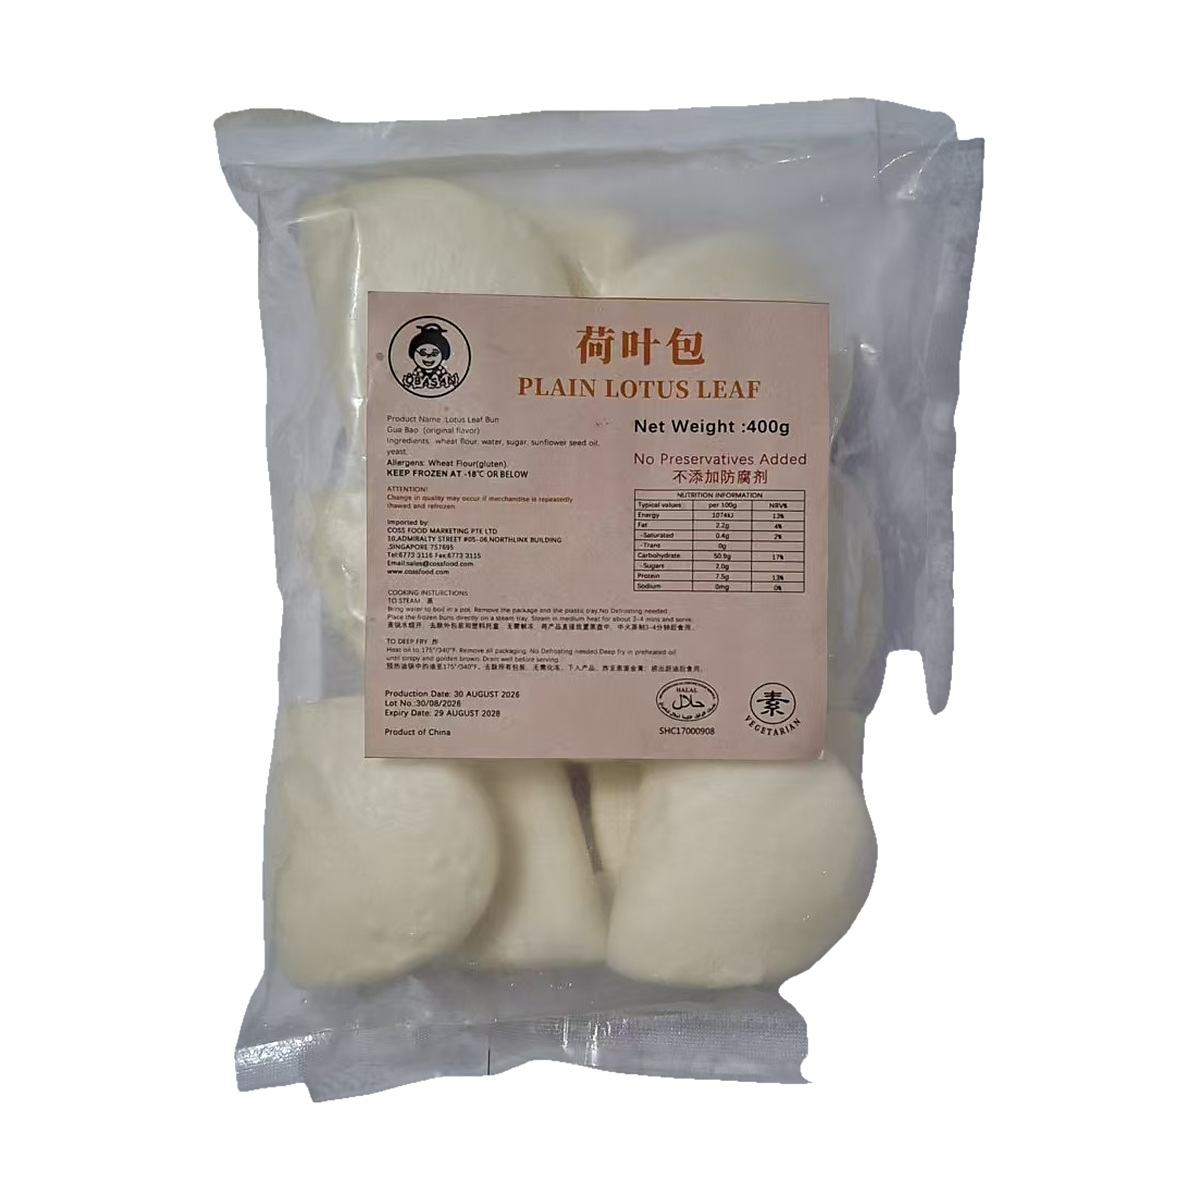
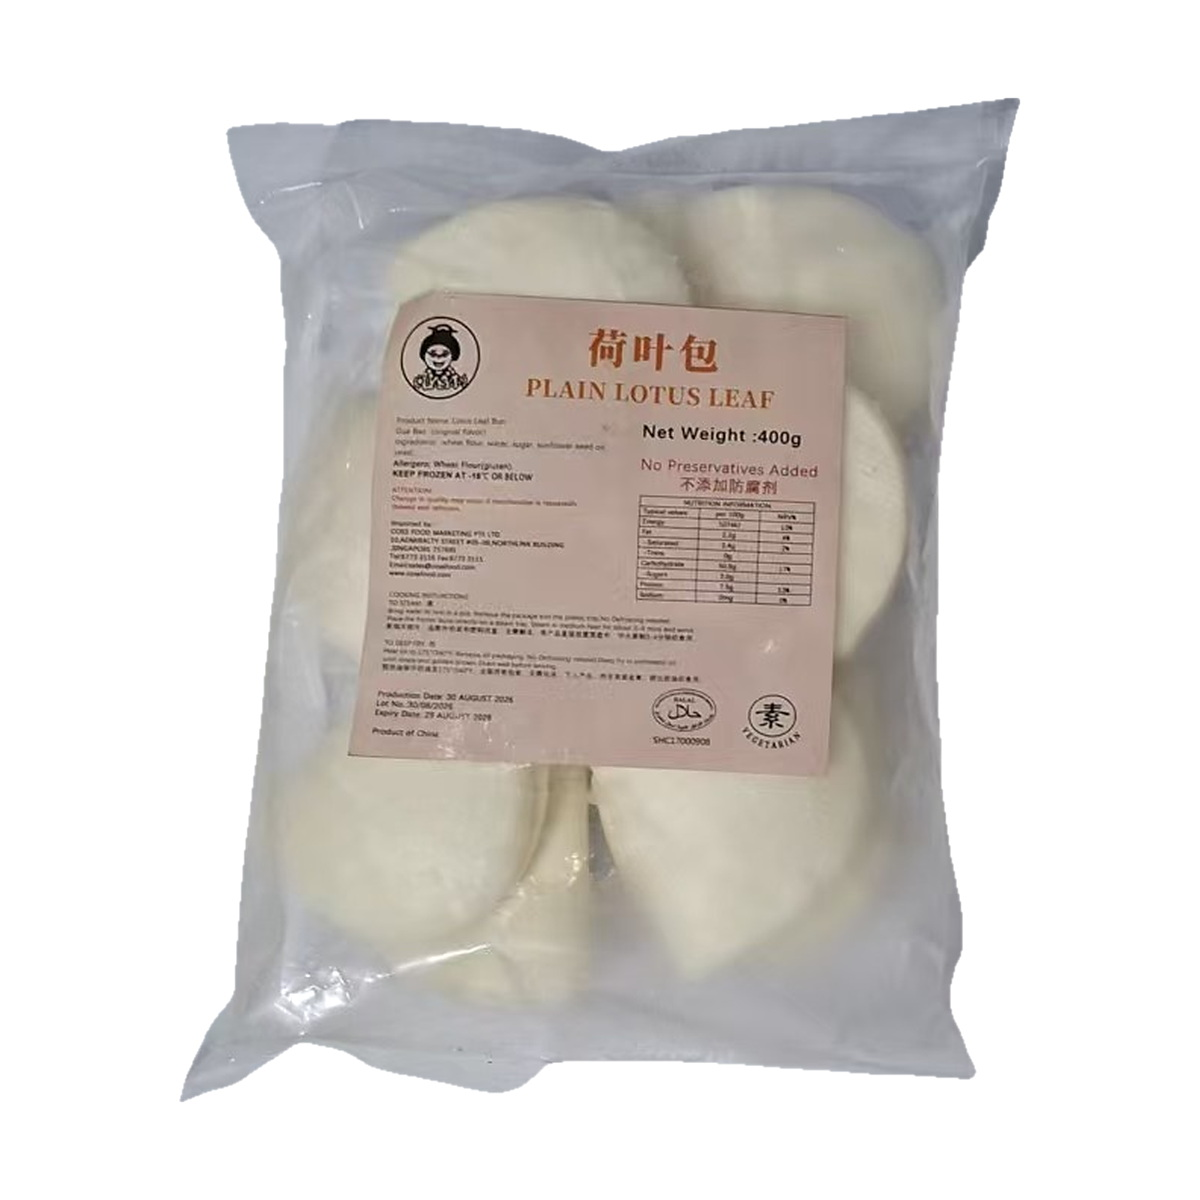
Lotus leaf bun (large): keep single main photo, remove deleted detail images

Changed region(s): [[0.1542, 0.0617, 0.8633, 0.925]]

diff --git a/index.html b/index.html
@@ -566,7 +566,7 @@
             { code: 'B008', names: { en: 'Mantou Pandan', zh: '斑斓馒头', ms: 'Mantou Pandan' }, category: '包点与点心', unit: 'PKT', brand: 'SOON LEE', images: ['image/optimized/B008 mantou pandan 斑斓馒头/soonlee-pandan-main.jpg', 'image/optimized/B008 mantou pandan 斑斓馒头/pandan-detail-1.jpg', 'image/optimized/B008 mantou pandan 斑斓馒头/pandan-detail-2.jpg'] },
             { code: 'B016', names: { en: 'Lotus Leaf (Plain)', zh: '荷叶包（原味）', ms: 'Daun Teratai (Kosong)' }, category: '包点与点心', unit: 'PKT', brand: 'SOON LEE', images: ['image/optimized/B016 lotus leaf (plain)荷叶包/soonlee-lotusplain-main.jpg', 'image/optimized/B016 lotus leaf (plain)荷叶包/lotusplain-detail-1.jpg', 'image/optimized/B016 lotus leaf (plain)荷叶包/lotusplain-detail-2.jpg'] },
             { id: 'new-fruitveg', code: '', names: { en: 'Fruit & Vegetable Mantou 180g', zh: '果蔬小馒头 180g', ms: 'Mantou Buah dan Sayur 180g' }, category: '包点与点心', unit: 'PKT', brand: 'OBASAN', images: ['image/optimized/fruit vegetable mantou 180g果蔬小馒头/obasan-fruitveg-main.jpg'] },
-            { id: 'new-lotus-big', code: '', names: { en: 'Lotus Leaf Bun (Large) 400g', zh: '荷叶包（大）400g', ms: 'Pau Daun Teratai (Besar) 400g' }, category: '包点与点心', unit: 'PKT', brand: 'OBASAN', images: ['image/optimized/lotus leaf 400g荷叶包(大）/obasan-lotusleaf-main.jpg', 'image/optimized/lotus leaf 400g荷叶包(大）/obasan-lotusleaf-detail-1.jpg', 'image/optimized/lotus leaf 400g荷叶包(大）/obasan-lotusleaf-detail-2.jpg'] },
+            { id: 'new-lotus-big', code: '', names: { en: 'Lotus Leaf Bun (Large) 400g', zh: '荷叶包（大）400g', ms: 'Pau Daun Teratai (Besar) 400g' }, category: '包点与点心', unit: 'PKT', brand: 'OBASAN', images: ['image/optimized/lotus leaf 400g荷叶包(大）/obasan-lotusleaf-main.jpg'] },
             { id: 'new-brownsugar', code: '', names: { en: 'Brown Sugar Mantou 130g', zh: '红糖馒头 130g', ms: 'Mantou Gula Perang 130g' }, category: '包点与点心', unit: 'PKT', brand: 'OBASAN', images: ['image/optimized/brown sugar mantou 130g红馒头/obasan-brownsugar-main.jpg'] },
             { code: 'CC001', names: { en: 'Sweeten Chin Chow', zh: '甜仙草', ms: 'Cincau Manis' }, category: '甜品与凉粉', unit: 'PCS', brand: 'LO SAM', images: ['image/optimized/CC001 sweeten chin chow甜仙草/sweeten-chinchow-main.jpg', 'image/optimized/CC001 sweeten chin chow甜仙草/chinchow-detail-1.jpg'] },
             { code: 'CC002', names: { en: 'Chin Chow No Sugar', zh: '无糖仙草', ms: 'Cincau Tanpa Gula' }, category: '甜品与凉粉', unit: 'PCS', brand: 'LO SAM', images: ['image/optimized/CC002 chin chow no sugar无糖仙草/original-chinchow-main.jpg', 'image/optimized/CC002 chin chow no sugar无糖仙草/originalchinchow-detail-1.jpg'] },
